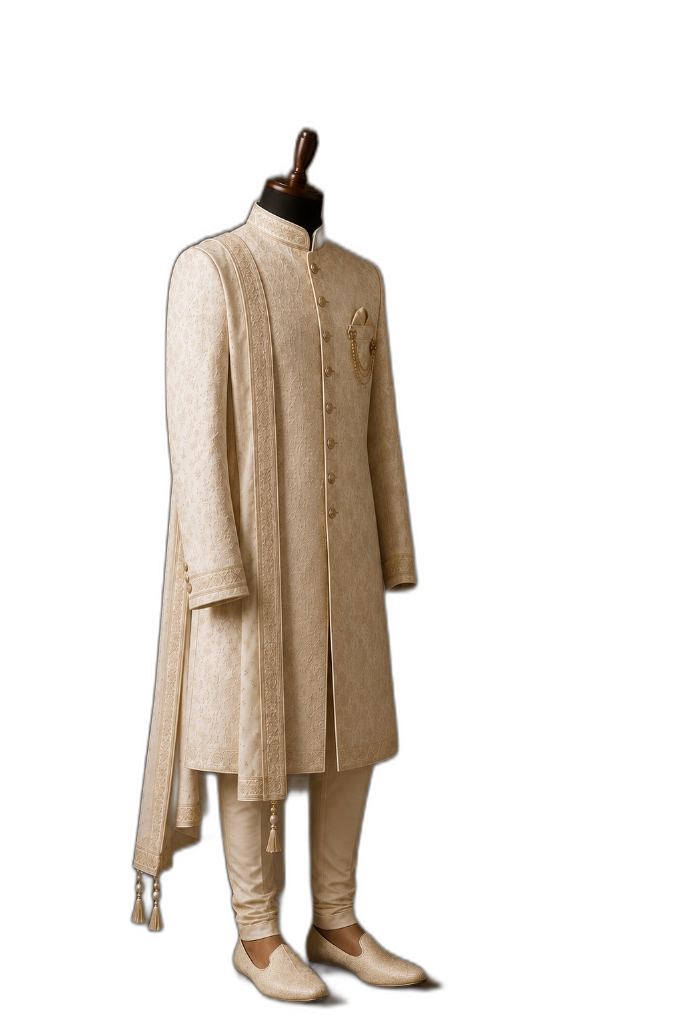
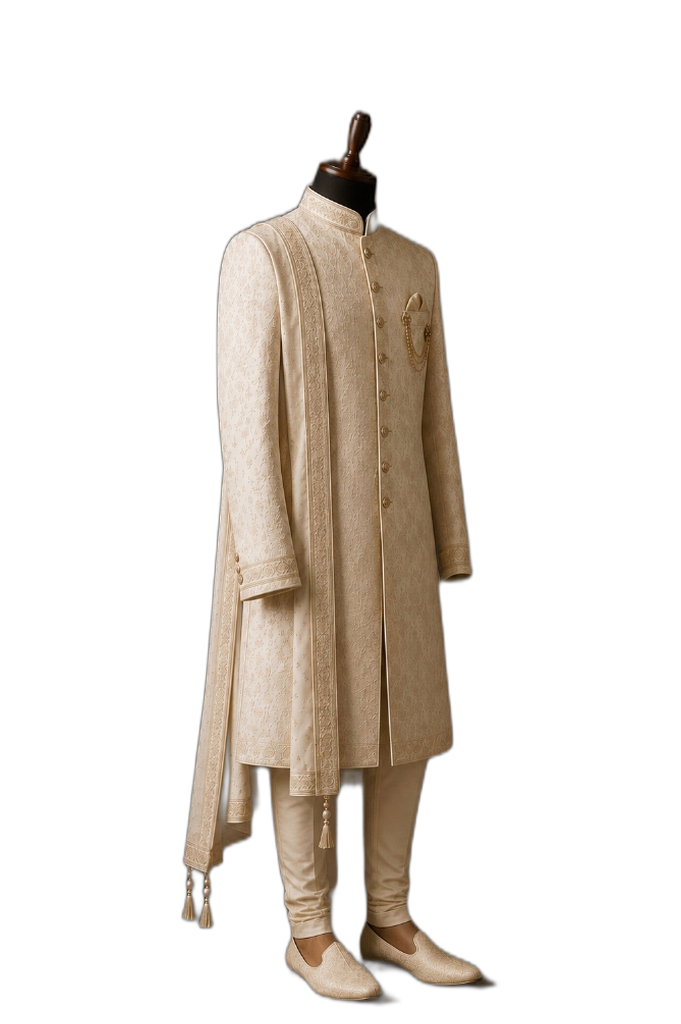
Align mannequin heights to 900px and baselines to y=1008

Changed region(s): [[0.185, 0.0938, 0.7401, 1.0]]

diff --git a/index.html b/index.html
@@ -1047,7 +1047,7 @@
       <!-- Left Side: Wedding Sherwani Mannequin Cutout (No Background) -->
       <div
         class="hidden lg:block lg:w-[200px] xl:w-[260px] 2xl:w-[285px] shrink-0 transition-transform duration-500 hover:scale-105 self-end">
-        <img src="assets/mannequin_wedding_sherwani_transparent.png?v=20260811_final" alt="TOOFIT Bespoke Royal Wedding Sherwani"
+        <img src="assets/mannequin_wedding_sherwani_transparent.png?v=aligned_perfect" alt="TOOFIT Bespoke Royal Wedding Sherwani"
           class="w-full h-auto block filter drop-shadow-[0_12px_24px_rgba(0,0,0,0.18)]">
       </div>
 
@@ -1077,7 +1077,7 @@
       <!-- Right Side: Formal Suitwear Mannequin Cutout (No Background) -->
       <div
         class="hidden lg:block lg:w-[200px] xl:w-[260px] 2xl:w-[285px] shrink-0 transition-transform duration-500 hover:scale-105 self-end">
-        <img src="assets/mannequin_formal_suit_transparent.png?v=20260811_final" alt="TOOFIT Bespoke Formal Suitwear with Shoes"
+        <img src="assets/mannequin_formal_suit_transparent.png?v=aligned_perfect" alt="TOOFIT Bespoke Formal Suitwear with Shoes"
           class="w-full h-auto block filter drop-shadow-[0_12px_24px_rgba(0,0,0,0.18)]">
       </div>
 
